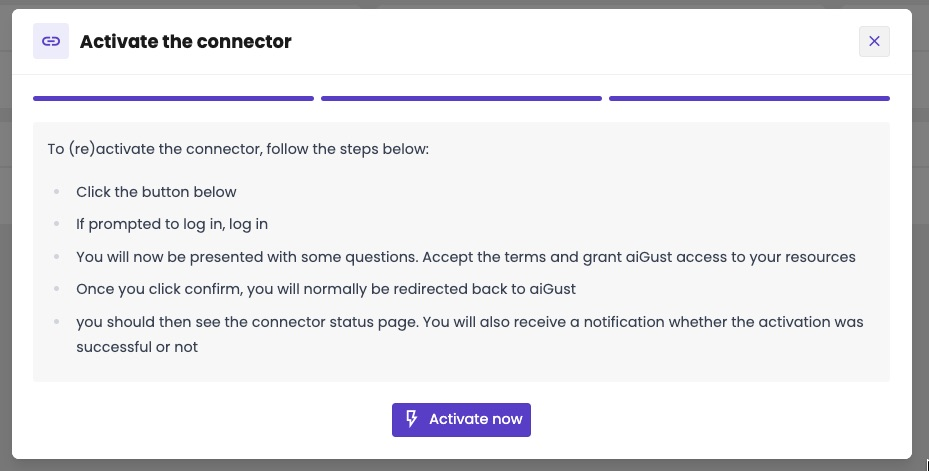
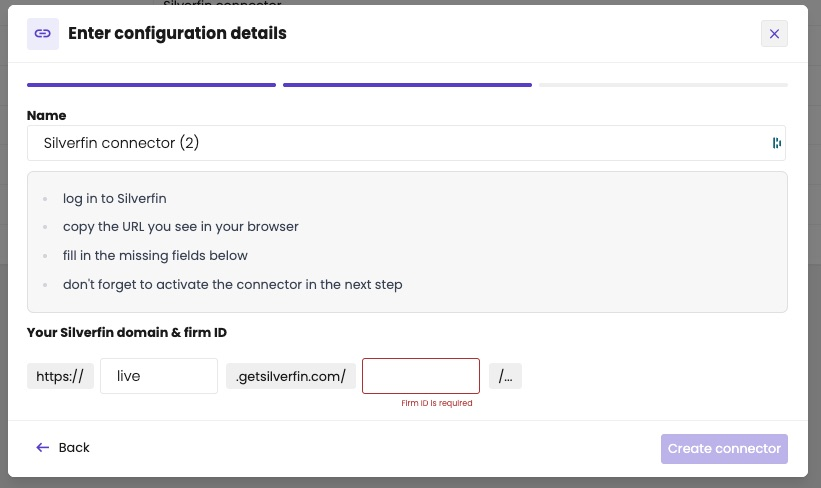
some tweaks

diff --git a/style.css b/style.css
@@ -104,3 +104,8 @@ table :not(pre) > code {
   overflow-wrap: normal !important;
   word-break: normal !important;
 }
+
+/* Hide the page description under the title. It stays in the frontmatter for search results, link previews and cards. */
+#header > div.prose.text-lg {
+  display: none !important;
+}
